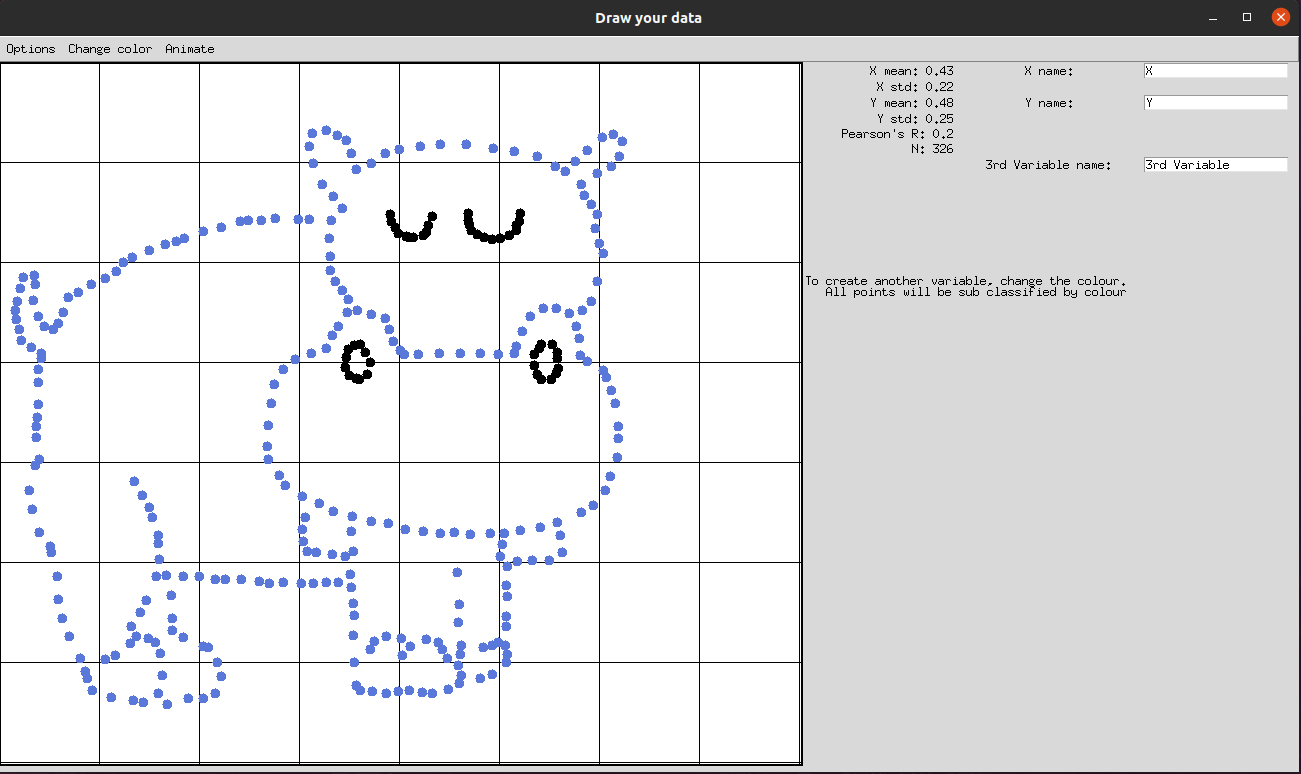
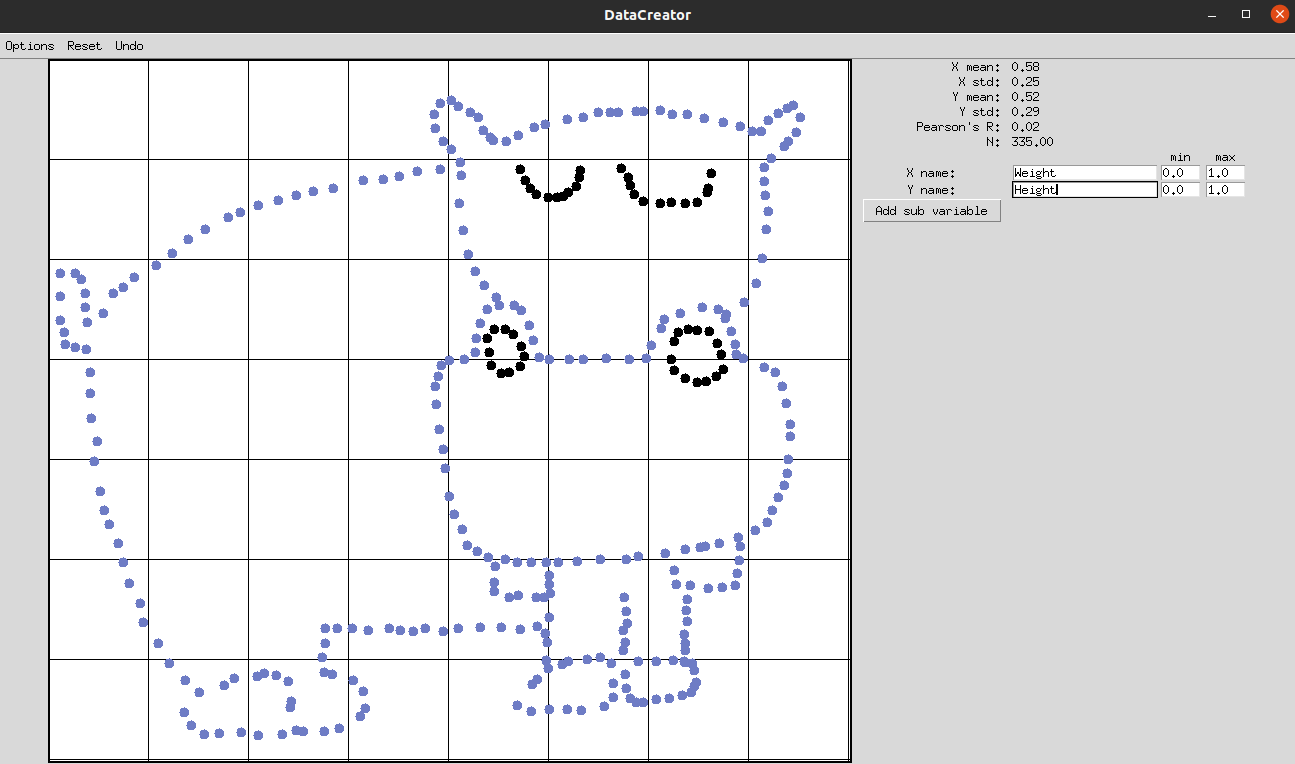
updated the readme and associated images

Changed region(s): [[0.0, 0.0, 1.0, 1.0]]

diff --git a/readme.md b/readme.md
@@ -8,16 +8,25 @@ An example:
 
 ![image](Hippoplotamus.jpg)
 
-The image has a mean of 0.43 in the x-axis, and 0.48 in the Y with a correlation of 0.2. Currently the output is saved as a csv file.
+The image has a mean of 0.58 in the x-axis, and 0.52 in the Y with a correlation of 0.02. Currently the output is saved as a csv file.
 
-This is very much a beginner project 
+### Usage:
 
-## Looking for
+Copy ```DataCreator.py``` to you local directory
+```
+import DataCreator
 
-- Collaborators/mentors who can help with all the elements of development.
-	- project organisation
-	- general coding
-	- mentoring?
+Datacreator.main()
+```
+
+Currently, the way to create sub variables, In the example above for example, is to click the "add sub variable button" which will give the following dialog.
+
+![image](add_sub_var.jpg)
+
+In the example, the Blue colour is male and black Female.
+
+You can also set the scale of the data in the x and y direction.
+
 
 ## Goals
 For the upto date notes on what is currently being worked on [see here](#https://github.com/Jake-Jasper/DataCreator/projects/1) 
